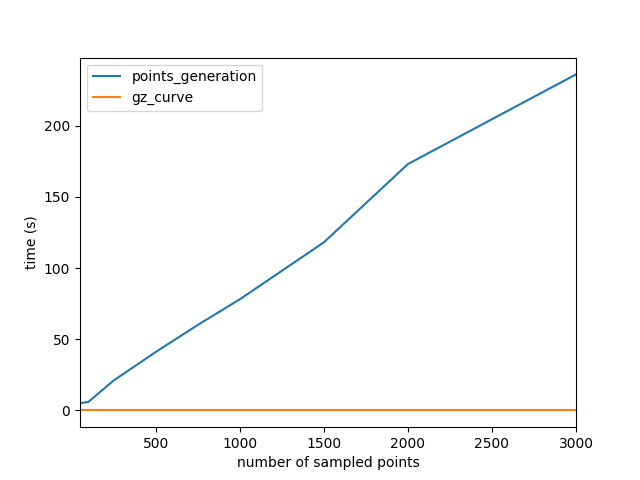
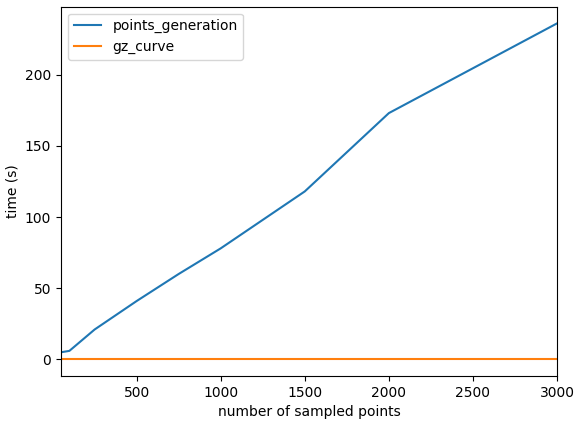
added waterline to converging GZ-curve figure. Cropped computation times figure. Updated README.md.

diff --git a/examples/computation_time.py b/examples/computation_time.py
@@ -11,6 +11,8 @@ def main():
     angles = np.arange(0,185,5)
 
     gz_curve_fig, gz_curve_ax = plt.subplots()
+    gz_curve_ax.hlines(0, angles.min(), angles.max(), color='k', label='waterline')
+    
     time_fig, time_ax = plt.subplots()
 
     n_points = np.array([50, 250, 500, 1000])

diff --git a/README.md b/README.md
@@ -2,6 +2,9 @@
 
 A Python library to compute and analyze GZ curves (stability curves) for marine vessels.
 
+The vessel's geometry must be supplied as a wavefront (```.obj```) file.
+
+
 ## Implementation
 
 ```gzpy``` uses a Monte-Carlo approach to approximate the vessel's mesh using randomly sampled points within its volume. Increasing the quantity of sampled points will improve the accuracy of the computed GZ-curve at the cost of increased computational effort.
@@ -11,27 +14,30 @@ A Python library to compute and analyze GZ curves (stability curves) for marine 
 
 The following figures were generated using ```examples/demo.py``` for the "Fishing Boat" sample model.
 
-For the "Fishing Boat" sampled model, shown below in Blender,
-![image info](examples/fishing_boat.png)
+For the "Fishing Boat" model, shown below in Blender,
+<img src="examples/fishing_boat.png" width="400">
 
 ```gzpy``` computed the following sampling point approximation of the hull using 1000 points, and used them to compute the GZ-curve.
 
-![image info](examples/fishing_boat_sampled_points.png)
-![image info](examples/fishing_boat_gz_curve.png)
+<img src="examples/fishing_boat_sampled_points.png" width="450">
+<img src="examples/fishing_boat_gz_curve.png" width="450">
 
 ### Convergence
 
 As the number of sampled points increases, it asymptotically approaches the exact model of the vessel.
 Consequently, the approximated GZ-curve also approaches the exact GZ-curve as the number of sampled points approaches infinity, at the cost of increased computational effort. The following example figures for the "Fishing Boat" model demonstrate convergence of the approximated GZ-curves as the number of sampled points increases, and the increased computation time on an Intel i9 CPU with 32 GB of RAM.
 
-![image info](examples/converging_gz_curves.png)
-![image info](examples/gz_curve_computation_time.png)
+<img src="examples/converging_gz_curves.png" width="600">
+<img src="examples/gz_curve_computation_time.png" width="450">
 
 As shown above, the majority of computation time is spent sampling points within the vessel, and relatively little time is spent computing the GZ-curve using these sampled points.
+
 
 ## Notes
 
 ```gzpy``` assumes the provided mesh is manifold, and has a defined volume. Improper meshes may produce unexpected behaviour.
+
+The provided examples and sample data do not reflect vessels, masses, or COM locations. The meshes and values used in the examples are for demonstration only.
 
 
 ## Conventions
